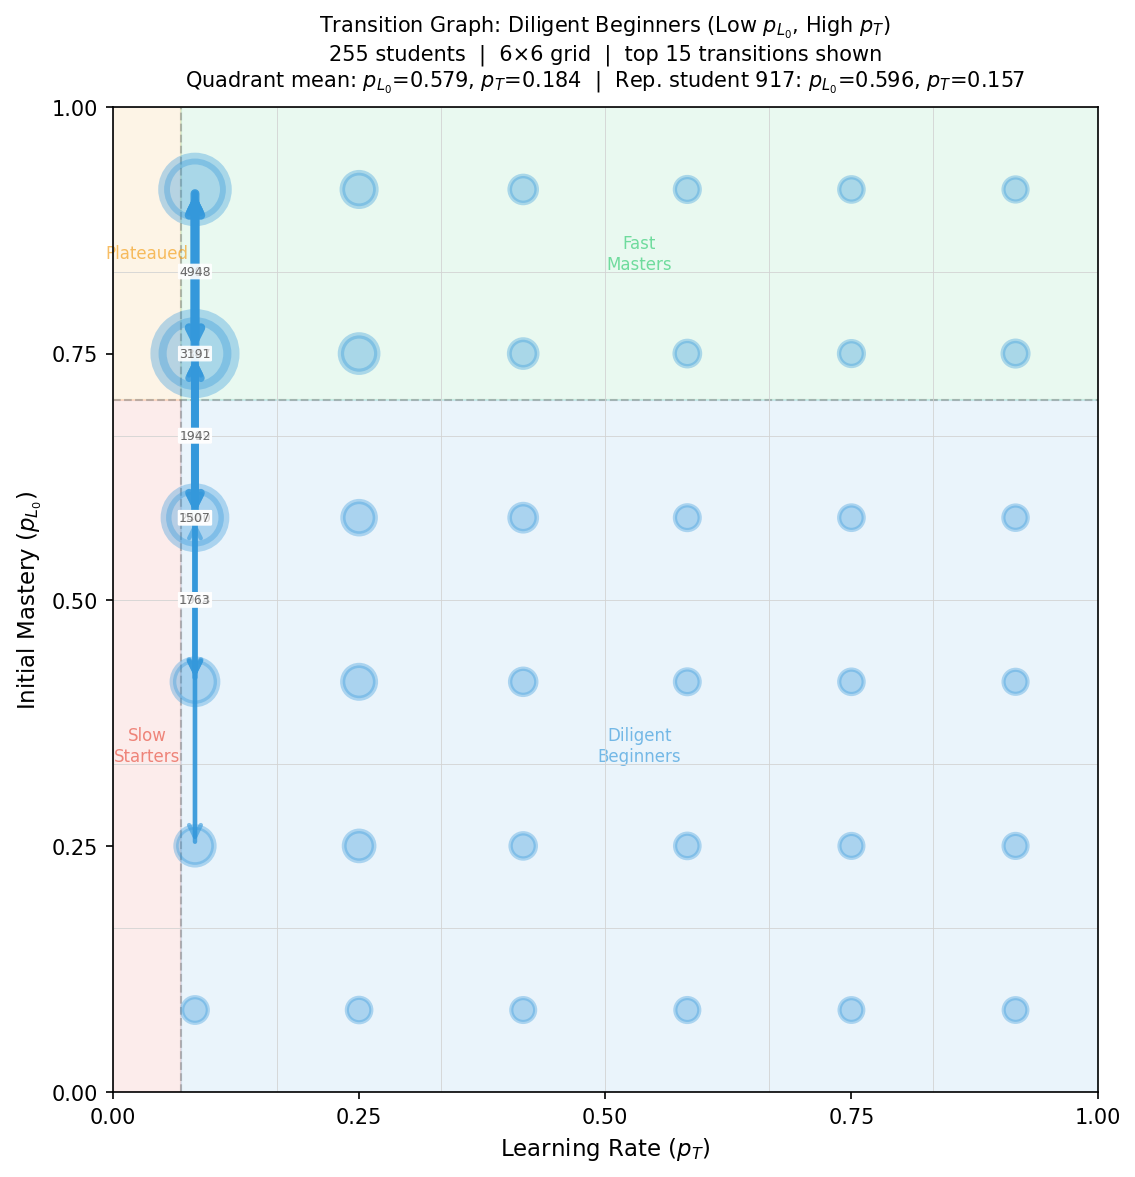
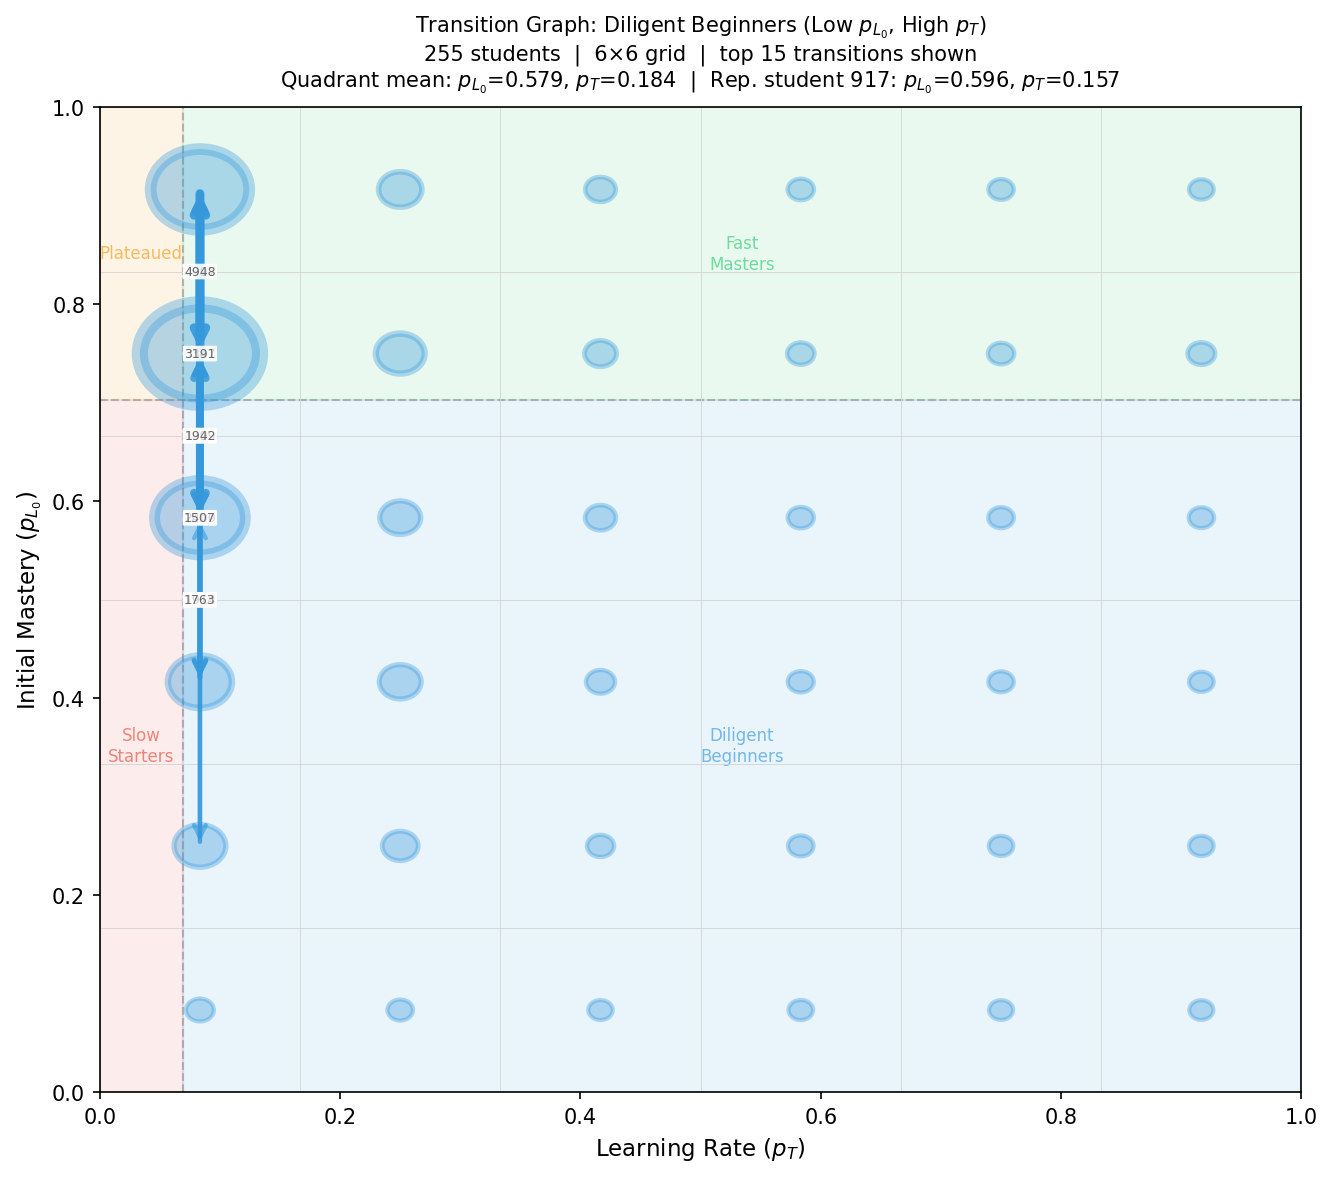
plots: transition graphs with circles outside the representaive quadrant

diff --git a/examples/results/generate_attractor_dynamics_plots.py b/examples/results/generate_attractor_dynamics_plots.py
@@ -237,18 +237,35 @@ def plot_transition_graph(df, sm, rate_col, init_col, representatives,
     outlines.
     """
     print(f"\n── Option 5: State transition graph ({grid_n}×{grid_n} grid) ──")
-    edges_g = np.linspace(0, 1, grid_n + 1)
-    centres = 0.5 * (edges_g[:-1] + edges_g[1:])
-
-    def cell_id(x, y):
-        ci = min(int(x * grid_n), grid_n - 1)
-        ri = min(int(y * grid_n), grid_n - 1)
-        return ri, ci   # (row, col)
 
     for i, uid in enumerate(representatives):
         quad     = i
         quad_ids = sm[sm['quadrant'] == quad].index
         quad_df  = df[df['student_id'].isin(quad_ids)]
+
+        # ── Data-driven axis bounds with 5% padding ────────────────────────
+        pad = 0.05
+        x_all = quad_df[rate_col].values
+        y_all = quad_df[init_col].values
+        xlo = max(0.0, x_all.min() - pad * (x_all.max() - x_all.min()))
+        xhi = min(1.0, x_all.max() + pad * (x_all.max() - x_all.min()))
+        ylo = max(0.0, y_all.min() - pad * (y_all.max() - y_all.min()))
+        yhi = min(1.0, y_all.max() + pad * (y_all.max() - y_all.min()))
+        if xhi - xlo < 1e-6: xlo, xhi = 0.0, 1.0
+        if yhi - ylo < 1e-6: ylo, yhi = 0.0, 1.0
+
+        # Per-quadrant grid edges in data range
+        q_edges_x = np.linspace(xlo, xhi, grid_n + 1)
+        q_edges_y = np.linspace(ylo, yhi, grid_n + 1)
+        q_cx = 0.5 * (q_edges_x[:-1] + q_edges_x[1:])
+        q_cy = 0.5 * (q_edges_y[:-1] + q_edges_y[1:])
+
+        def cell_id(x, y):
+            ci = np.searchsorted(q_edges_x, x, side='right') - 1
+            ri = np.searchsorted(q_edges_y, y, side='right') - 1
+            ci = int(max(0, min(grid_n - 1, ci)))
+            ri = int(max(0, min(grid_n - 1, ri)))
+            return ri, ci
 
         # Count transitions
         from collections import defaultdict
@@ -275,18 +292,50 @@ def plot_transition_graph(df, sm, rate_col, init_col, representatives,
         max_freq  = top_trans[0][1] if top_trans else 1
 
         fig, ax = plt.subplots(figsize=(9, 8))
-        draw_bg(ax, t_med, l0_med, colors, short_names)
+
+        # ── Quadrant background regions clipped to data range ──────────────
+        def clipped_rect(ax_, x0, y0, w, h, color, alpha):
+            rx0 = max(x0, xlo); ry0 = max(y0, ylo)
+            rx1 = min(x0+w, xhi); ry1 = min(y0+h, yhi)
+            if rx1 > rx0 and ry1 > ry0:
+                ax_.add_patch(Rectangle((rx0, ry0), rx1-rx0, ry1-ry0,
+                                        color=color, alpha=alpha, zorder=0))
+
+        clipped_rect(ax, 0,     0,     t_med,     l0_med,     colors[0], 0.10)
+        clipped_rect(ax, 0,     l0_med, t_med,    1-l0_med,   colors[1], 0.10)
+        clipped_rect(ax, t_med, 0,     1-t_med,   l0_med,     colors[2], 0.10)
+        clipped_rect(ax, t_med, l0_med, 1-t_med,  1-l0_med,   colors[3], 0.10)
+
+        if xlo <= t_med <= xhi:
+            ax.axvline(t_med,  color='grey', lw=1.0, ls='--', alpha=0.5, zorder=1)
+        if ylo <= l0_med <= yhi:
+            ax.axhline(l0_med, color='grey', lw=1.0, ls='--', alpha=0.5, zorder=1)
+
+        # Quadrant name labels (only if median is within view)
+        for q_l, (px, py) in enumerate([
+            (t_med/2,        l0_med/2),
+            (t_med/2,        (l0_med+1)/2),
+            ((t_med+1)/2,    l0_med/2),
+            ((t_med+1)/2,    (l0_med+1)/2),
+        ]):
+            if xlo <= px <= xhi and ylo <= py <= yhi:
+                ax.text(px, py, short_names[q_l], ha='center', va='center',
+                        fontsize=8, color=colors[q_l], alpha=0.65, zorder=1)
 
         # ── Draw grid ──────────────────────────────────────────────────────
-        for v in edges_g:
+        for v in q_edges_x:
             ax.axvline(v, color='lightgrey', lw=0.4, zorder=1)
+        for v in q_edges_y:
             ax.axhline(v, color='lightgrey', lw=0.4, zorder=1)
 
         # ── Node circles sized by visit count ─────────────────────────────
         max_visits = max(visit_count.values()) if visit_count else 1
+        cell_w = (xhi - xlo) / grid_n
+        cell_h = (yhi - ylo) / grid_n
+        base_r = 0.3 * min(cell_w, cell_h)
         for (r, c), cnt in visit_count.items():
-            cx_n = centres[c]; cy_n = centres[r]
-            radius = 0.012 + 0.025 * cnt / max_visits
+            cx_n = q_cx[c]; cy_n = q_cy[r]
+            radius = 0.2 * base_r + 0.8 * base_r * cnt / max_visits
             sl_lw  = 2.0 + 4.0 * self_loops.get((r,c), 0) / max_freq
             circle = plt.Circle((cx_n, cy_n), radius,
                                  color=colors[quad], alpha=0.35,
@@ -297,8 +346,8 @@ def plot_transition_graph(df, sm, rate_col, init_col, representatives,
         # ── Arrows for top transitions ─────────────────────────────────────
         for (src, dst), freq in top_trans:
             sr, sc_ = src; dr, dc = dst
-            x0 = centres[sc_]; y0 = centres[sr]
-            x1 = centres[dc];  y1 = centres[dr]
+            x0 = q_cx[sc_]; y0 = q_cy[sr]
+            x1 = q_cx[dc];  y1 = q_cy[dr]
             lw   = 0.8 + 3.5 * freq / max_freq
             alpha = 0.4 + 0.5 * freq / max_freq
             ax.annotate('', xy=(x1, y1), xytext=(x0, y0),
@@ -310,6 +359,11 @@ def plot_transition_graph(df, sm, rate_col, init_col, representatives,
             ax.text(mx, my, str(freq), fontsize=6, color='dimgrey',
                     ha='center', va='center', zorder=5,
                     bbox=dict(boxstyle='round,pad=0.1', fc='white', ec='none', alpha=0.7))
+
+        ax.set_xlim(xlo, xhi)
+        ax.set_ylim(ylo, yhi)
+        ax.set_xlabel('Learning Rate ($p_T$)', fontsize=11)
+        ax.set_ylabel('Initial Mastery ($p_{L_0}$)', fontsize=11)
 
         n_quad = len(quad_ids)
         quad_mean_l0 = sm.loc[quad_ids, init_col].mean()
@@ -323,7 +377,6 @@ def plot_transition_graph(df, sm, rate_col, init_col, representatives,
             f'  |  Rep. student {uid}: $p_{{L_0}}$={rep_mean_l0:.3f}, $p_T$={rep_mean_t:.3f}',
             fontsize=10, pad=10
         )
-        ax.set_aspect('equal')
 
         plt.tight_layout()
         out = os.path.join(output_dir, f"attractor_transgraph_{names[i]}_{suffix}.png")
